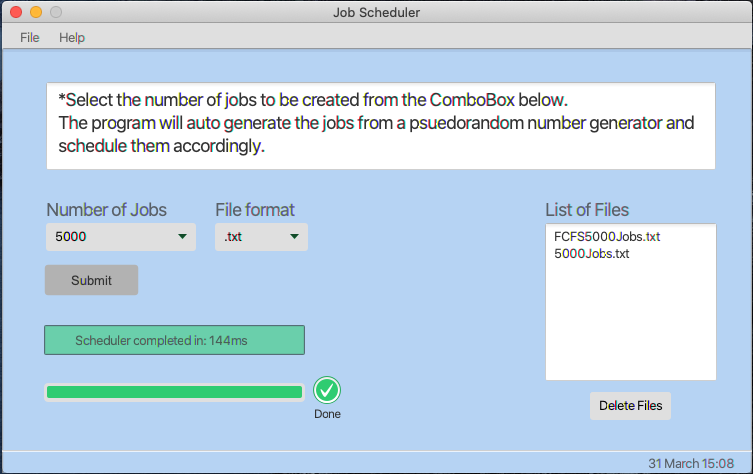
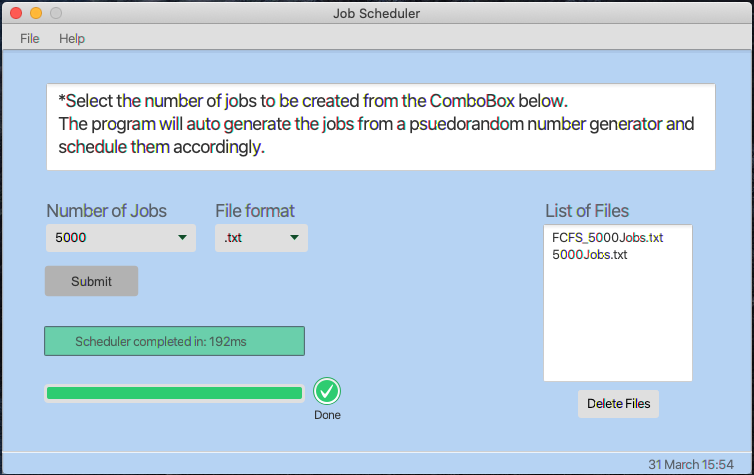
Updated REAADME.md

diff --git a/src/sample/Algorithms/FCFS.java b/src/sample/Algorithms/FCFS.java
@@ -27,7 +27,7 @@ public class FCFS {
 
         ArrayList<Resource> assignedResources = new ArrayList<>();
         String formattedFileType = fileType.replaceAll("\\s+","");
-        String fName = String.format("src/sample/Output/FCFS%dJobs%s", data.size(), formattedFileType);
+        String fName = String.format("src/sample/Output/FCFS_%dJobs%s", data.size(), formattedFileType);
 
         File file = new File(fName);
         try (PrintWriter pw = new PrintWriter(new FileOutputStream(file))) {
